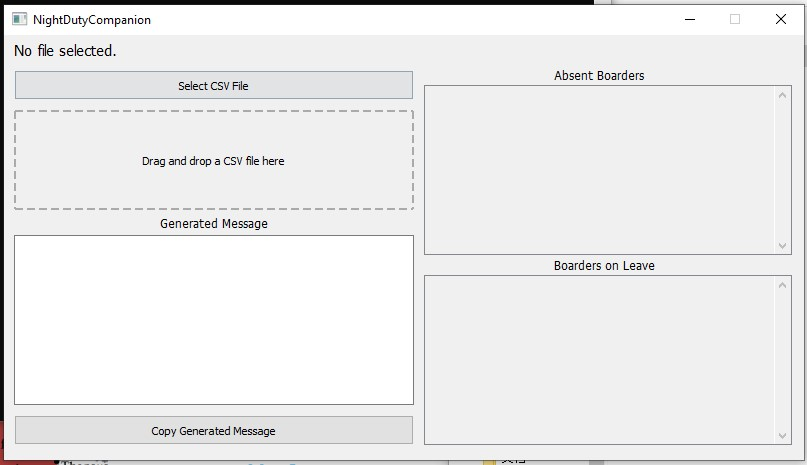
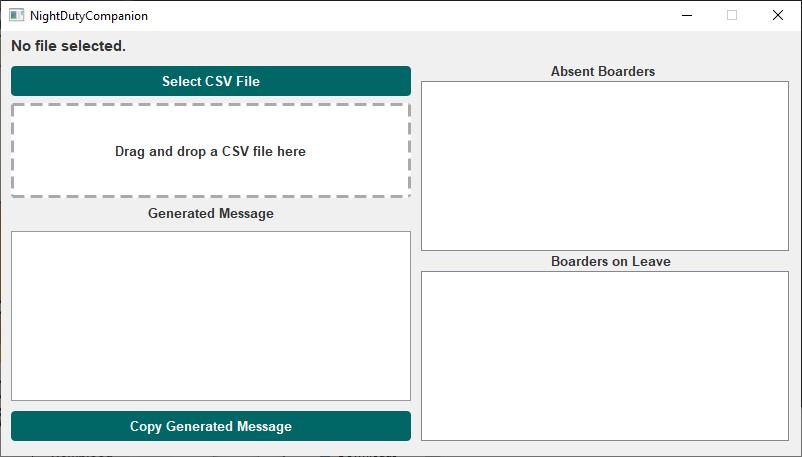
Update User Guide

Changed region(s): [[0.0, 0.0, 1.0, 1.0], [0.1247, 0.3063, 0.3741, 0.3676]]

diff --git a/MainWindow.py b/MainWindow.py
@@ -16,7 +16,7 @@ class MainWindow(QMainWindow):
     def __init__(self):
         super().__init__()
         self.setWindowTitle("NightDutyCompanion")
-        self.setWindowIcon(QIcon("icon.png"))
+        self.setWindowIcon(QIcon("icon.ico"))
         self.setFixedSize(800, 425)
 
         self.create_column_0()

diff --git a/docs/README.md b/docs/README.md
@@ -1,4 +1,6 @@
-## User Guide
+NightDutyCompanion is a simple desktop application designed to assist RIB RAs with RIB routine night duty.
+
+![Analysis Result](Result.jpg)
 
 - [User Guide](#user-guide)
   * [Step 1: Export Attendance Data from BMS](#step-1--export-attendance-data-from-bms)
@@ -66,12 +68,14 @@
 
 ### Step 6: Check the Absent Boarders and Boarders on Leave
 
-1. You use the two check box list on the right side of  the app to help you keep track of the boarders status.
+1. You can use the two checkbox lists on the right side of the app to keep track of the boarders' status.
+2. When a absent or on-leave boarder is back, check the corresponding box to mark them as such. will be highlighted in green, providing better visualization.
 
-## More to Come..
+## More to Come … 
 
 1. Auto Fix Corrupted XLS Files: NightDutyCompanion will introduce an automatic file format fixing feature. Instead of manually saving the downloaded XLS file as a CSV, the application will handle the conversion process internally, ensuring that any corrupted format issues are resolved seamlessly.
-2. UI Beautification: NightDutyCompanion will undergo a UI enhancement to improve the overall visual appeal and user experience. The updated user interface will be more intuitive, user-friendly, and aesthetically pleasing, making it even easier to navigate and use the application effectively.
+2. Further UI Beautification: NightDutyCompanion will undergo further UI enhancement to improve the overall visual appeal and user experience. The updated user interface will be more intuitive, user-friendly, and aesthetically pleasing, making it even easier to navigate and use the application effectively.
+3. And more … 
 
 ## Disclaimer
 

diff --git a/README.md b/README.md
@@ -1,7 +1,9 @@
-# NightDutyCompanion
+# Night Duty Companion
 [![pages-build-deployment](https://github.com/Yufannnn/NightDutyCompanion/actions/workflows/pages/pages-build-deployment/badge.svg)](https://github.com/Yufannnn/NightDutyCompanion/actions/workflows/pages/pages-build-deployment)
 
 NightDutyCompanion is a simple desktop application designed to assist RIB RAs with RIB routine night duty.
+
+![image](docs\Result.jpg)
 
 ## Features
 
@@ -9,6 +11,7 @@ NightDutyCompanion is a simple desktop application designed to assist RIB RAs wi
 - Automatically generate messages to be sent to the Boarding Managers.
 - List absent boarders with their contact numbers and room numbers.
 - List boarders on leave with their leave due time.
+- RI styled GUI.
 
 ## Installation
 
@@ -37,7 +40,7 @@ pip install -r requirements.txt
 
 6. Once the dependencies are installed, run NightDutyCompanion by executing the following command in the terminal:
 ```
-python NightDutyCompanion.py
+NightDutyCompanion.py
 ```
 
 ## How to Use
